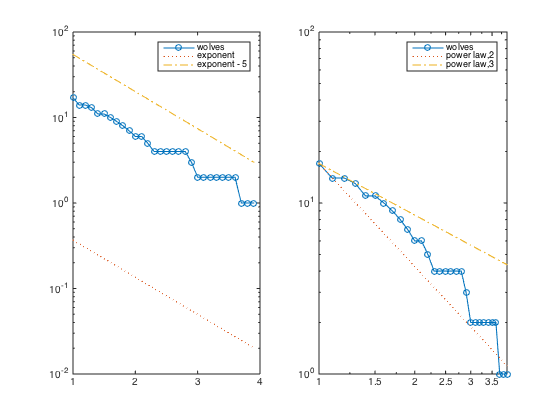
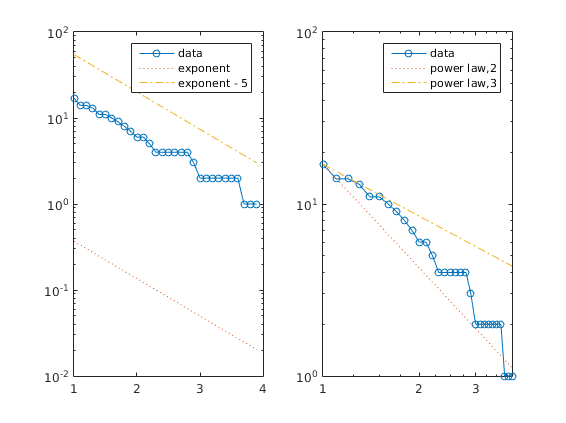
""

diff --git a/hierarchical_nets/html/monkeysData.html b/hierarchical_nets/html/monkeysData.html
@@ -6,7 +6,7 @@
    <!--
 This HTML was auto-generated from MATLAB code.
 To make changes, update the MATLAB code and republish this document.
-      --><title>VALIDATING THE MONKEYS DATASET (Dominance-based Attachment Model)</title><meta name="generator" content="MATLAB 8.4"><link rel="schema.DC" href="http://purl.org/dc/elements/1.1/"><meta name="DC.date" content="2015-08-16"><meta name="DC.source" content="monkeysData.m"><style type="text/css">
+      --><title>VALIDATING THE MONKEYS DATASET (Dominance-based Attachment Model)</title><meta name="generator" content="MATLAB 8.5"><link rel="schema.DC" href="http://purl.org/dc/elements/1.1/"><meta name="DC.date" content="2015-08-31"><meta name="DC.source" content="monkeysData.m"><style type="text/css">
 html,body,div,span,applet,object,iframe,h1,h2,h3,h4,h5,h6,p,blockquote,pre,a,abbr,acronym,address,big,cite,code,del,dfn,em,font,img,ins,kbd,q,s,samp,small,strike,strong,sub,sup,tt,var,b,u,i,center,dl,dt,dd,ol,ul,li,fieldset,form,label,legend,table,caption,tbody,tfoot,thead,tr,th,td{margin:0;padding:0;border:0;outline:0;font-size:100%;vertical-align:baseline;background:transparent}body{line-height:1}ol,ul{list-style:none}blockquote,q{quotes:none}blockquote:before,blockquote:after,q:before,q:after{content:'';content:none}:focus{outine:0}ins{text-decoration:none}del{text-decoration:line-through}table{border-collapse:collapse;border-spacing:0}
 
 html { min-height:100%; margin-bottom:1px; }
@@ -66,7 +66,7 @@ table td { padding:7px 5px; text-align:left; vertical-align:top; border:1px soli
 
 
 
-  </style></head><body><div class="content"><h1>VALIDATING THE MONKEYS DATASET (Dominance-based Attachment Model)</h1><!--introduction--><p><img vspace="5" hspace="5" src="monkeys.jpg" alt=""> </p><p>The monkeys were assigned to "troops". The "co-observations" of collections of individuals are reported.</p><p>Source: <a href="http://moreno.ss.uci.edu/data.html#howler">http://moreno.ss.uci.edu/data.html#howler</a></p><!--/introduction--><h2>Contents</h2><div><ul><li><a href="#1">Importing Data</a></li><li><a href="#2">Preprocessing</a></li><li><a href="#5">Degree Distribution</a></li><li><a href="#6">Strength Distribution Predictions</a></li><li><a href="#7">Edge Comparison</a></li></ul></div><h2>Importing Data<a name="1"></a></h2><pre class="codeinput">clear <span class="string">all</span>
+  </style></head><body><div class="content"><h1>VALIDATING THE MONKEYS DATASET (Dominance-based Attachment Model)</h1><!--introduction--><p>Bijan Ranjbar-Sahraei</p><p><img vspace="5" hspace="5" src="monkeys.jpg" alt=""> </p><p>The monkeys were assigned to "troops". The "co-observations" of collections of individuals are reported.</p><p>Source: <a href="http://moreno.ss.uci.edu/data.html#howler">http://moreno.ss.uci.edu/data.html#howler</a></p><!--/introduction--><h2>Contents</h2><div><ul><li><a href="#1">Importing Data</a></li><li><a href="#2">Preprocessing</a></li><li><a href="#5">Degree Distribution</a></li><li><a href="#6">Strength Distribution Predictions</a></li><li><a href="#7">Edge Comparison</a></li></ul></div><h2>Importing Data<a name="1"></a></h2><pre class="codeinput">clear <span class="string">all</span>
 load <span class="string">monkeys_data.mat</span>
 </pre><h2>Preprocessing<a name="2"></a></h2><p>Preprocessing the data to make it lower triangular and normalized.</p><pre class="codeinput">n = size(data,1);
 data_tril = tril(data,-1);
@@ -93,7 +93,7 @@ semilogy(ccdf_x, ccdf_hist,<span class="string">'-o'</span>)
 hold <span class="string">on</span>
 semilogy(ccdf_x, exp(-ccdf_x),<span class="string">':'</span>)  <span class="comment">% approximation of power law</span>
 semilogy(ccdf_x, exp(5-ccdf_x),<span class="string">'-.'</span>)  <span class="comment">% approximation of power law</span>
-legend(<span class="string">'wolves'</span>,<span class="string">'exponent'</span>,<span class="string">'exponent - 5'</span>)
+legend(<span class="string">'data'</span>,<span class="string">'exponent'</span>,<span class="string">'exponent - 5'</span>)
 
 
 subplot(122)
@@ -101,7 +101,7 @@ loglog(ccdf_x, ccdf_hist,<span class="string">'-o'</span>)
 hold <span class="string">on</span>
 loglog(ccdf_x, n * ccdf_x.^(-2),<span class="string">':'</span>)  <span class="comment">% approximation of power law</span>
 loglog(ccdf_x, n * ccdf_x.^(-1),<span class="string">'-.'</span>)  <span class="comment">% approximation of power law</span>
-legend(<span class="string">'wolves'</span>,<span class="string">'power law,2'</span>,<span class="string">'power law,3'</span>)
+legend(<span class="string">'data'</span>,<span class="string">'power law,2'</span>,<span class="string">'power law,3'</span>)
 </pre><img vspace="5" hspace="5" src="monkeysData_01.png" alt=""> <h2>Strength Distribution Predictions<a name="6"></a></h2><p>Using the hierarchy network, we generate the PA model and compare the predicted strength distributions and real distribution.</p><pre class="codeinput">Wg = genericModel(H,<span class="string">'DA'</span>);
 
 ccdf_x_g = 1:.1:max(sum(Wg,2));  <span class="comment">% the partitions of the x-axis</span>
@@ -123,10 +123,10 @@ figure
 plot(edges(:),edgesG(:),<span class="string">'o'</span>); lsline
 xlabel(<span class="string">'real edge weights'</span>)
 ylabel(<span class="string">'predicted edge weights'</span>)
-</pre><img vspace="5" hspace="5" src="monkeysData_03.png" alt=""> <p class="footer"><br><a href="http://www.mathworks.com/products/matlab/">Published with MATLAB&reg; R2014b</a><br></p></div><!--
+</pre><img vspace="5" hspace="5" src="monkeysData_03.png" alt=""> <p class="footer"><br><a href="http://www.mathworks.com/products/matlab/">Published with MATLAB&reg; R2015a</a><br></p></div><!--
 ##### SOURCE BEGIN #####
 %% VALIDATING THE MONKEYS DATASET (Dominance-based Attachment Model)
-%
+% Bijan Ranjbar-Sahraei
 % 
 % <<monkeys.jpg>>
 % 
@@ -178,7 +178,7 @@ semilogy(ccdf_x, ccdf_hist,'-o')
 hold on
 semilogy(ccdf_x, exp(-ccdf_x),':')  % approximation of power law
 semilogy(ccdf_x, exp(5-ccdf_x),'-.')  % approximation of power law
-legend('wolves','exponent','exponent - 5')
+legend('data','exponent','exponent - 5')
 
 
 subplot(122)
@@ -186,7 +186,7 @@ loglog(ccdf_x, ccdf_hist,'-o')
 hold on
 loglog(ccdf_x, n * ccdf_x.^(-2),':')  % approximation of power law
 loglog(ccdf_x, n * ccdf_x.^(-1),'-.')  % approximation of power law
-legend('wolves','power law,2','power law,3')
+legend('data','power law,2','power law,3')
 
 
 
